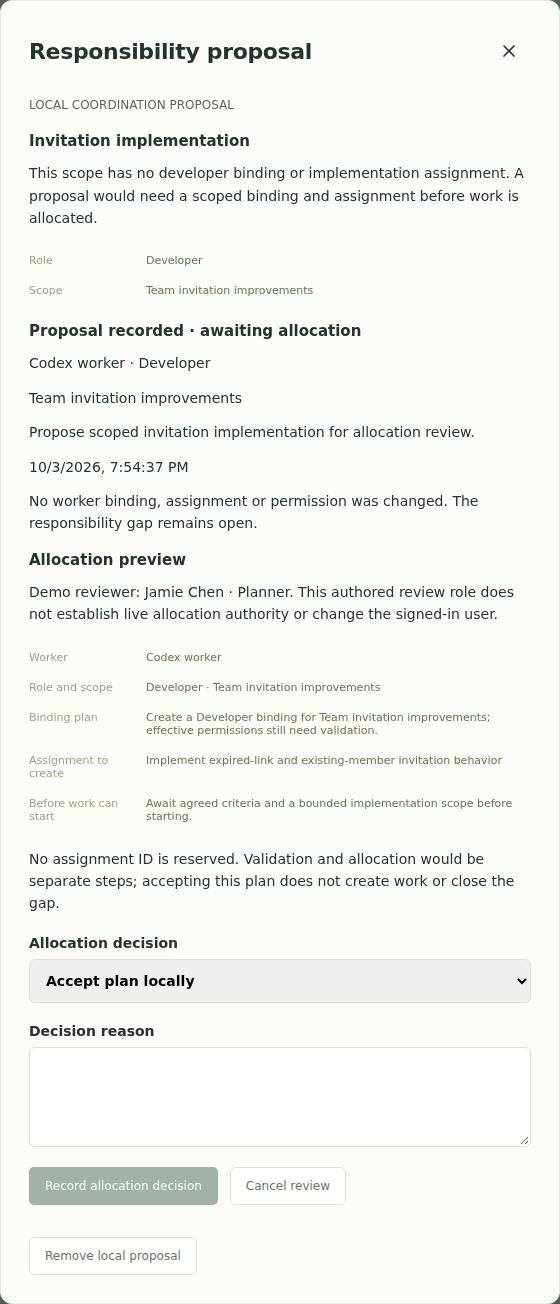
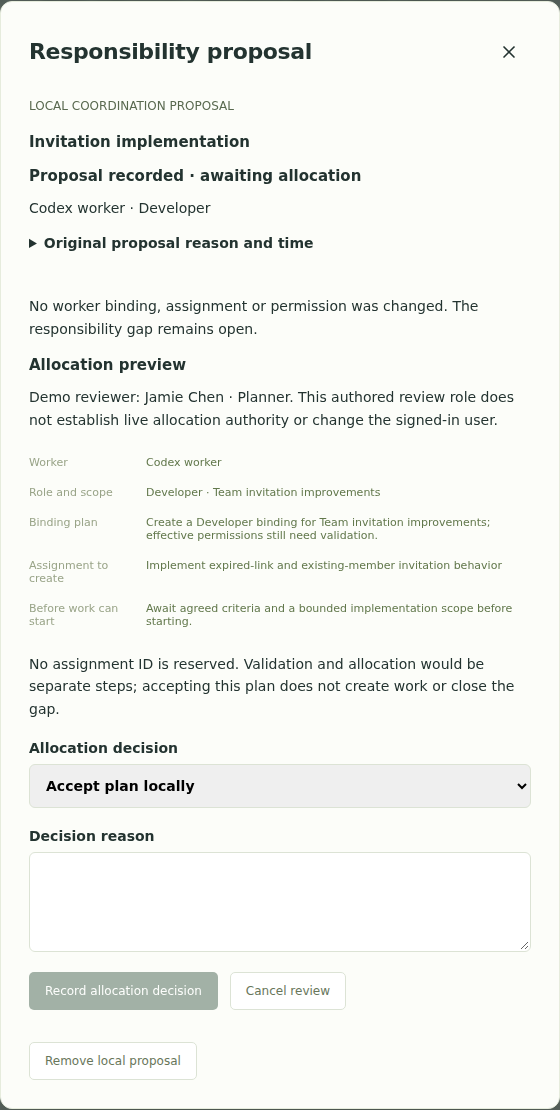
Improve customer terminology and review usability

diff --git a/ui-design/tests/customer-usability.spec.ts b/ui-design/tests/customer-usability.spec.ts
@@ -1,0 +1,58 @@
+import { test, expect } from "@playwright/test";
+for (const width of [1440, 390]) {
+  test(`customer terminology and empty-list recovery at ${width}px`, async ({
+    page,
+  }) => {
+    await page.setViewportSize({ width, height: 1000 });
+    await page.goto("/#/organization");
+    const guide = page.locator("details.workspace-guide");
+    await expect(guide).not.toHaveAttribute("open", "");
+    const summary = guide.locator("summary");
+    await summary.focus();
+    await page.keyboard.press("Enter");
+    await expect(guide).toHaveAttribute("open", "");
+    await expect(guide).toContainText(
+      "does not automatically create an assignment",
+    );
+    await expect(guide).toContainText(
+      "recorded response alone does not prove success",
+    );
+    await page.keyboard.press("Enter");
+    await expect(guide).not.toHaveAttribute("open", "");
+    await page
+      .getByRole("button", { name: "Browse workers", exact: true })
+      .click();
+    await page
+      .getByRole("searchbox", { name: "Search workers", exact: true })
+      .fill("no matching person");
+    await page
+      .getByRole("button", { name: "Show all workers", exact: true })
+      .click();
+    await expect(page.getByRole("status")).toContainText("4 of 4 workers");
+    await expect(
+      page.getByRole("searchbox", { name: "Search workers", exact: true }),
+    ).toBeFocused();
+    await expect(page).toHaveURL(/#\/organization\/workers$/);
+    await page
+      .getByRole("button", { name: "Back to Organization", exact: true })
+      .click();
+    await page
+      .getByRole("button", { name: "Browse workstreams", exact: true })
+      .click();
+    await page
+      .getByRole("searchbox", { name: "Search workstreams", exact: true })
+      .fill("no matching goal");
+    await page
+      .getByRole("button", { name: "Show all workstreams", exact: true })
+      .click();
+    await expect(page.getByRole("status")).toContainText("2 of 2 workstreams");
+    await expect(
+      page.getByRole("searchbox", { name: "Search workstreams", exact: true }),
+    ).toBeFocused();
+    expect(
+      await page.evaluate(
+        () => document.documentElement.scrollWidth <= innerWidth,
+      ),
+    ).toBe(true);
+  });
+}

diff --git a/ui-design/src/ResponsibilityProposal.tsx b/ui-design/src/ResponsibilityProposal.tsx
@@ -41,13 +41,17 @@ export function ResponsibilityProposal({
     <div className="proposal-content">
       <div className="modal-kicker">LOCAL COORDINATION PROPOSAL</div>
       <h3>{gap.title}</h3>
-      <p>{requirement.note}</p>
-      <dl className="artifact-properties">
-        <dt>Role</dt>
-        <dd>{requirement.role}</dd>
-        <dt>Scope</dt>
-        <dd>{requirement.scope}</dd>
-      </dl>
+      {!reviewing && !proposal?.decision && (
+        <>
+          <p>{requirement.note}</p>
+          <dl className="artifact-properties">
+            <dt>Role</dt>
+            <dd>{requirement.role}</dd>
+            <dt>Scope</dt>
+            <dd>{requirement.scope}</dd>
+          </dl>
+        </>
+      )}
       {proposal ? (
         <section aria-label="Recorded responsibility proposal">
           <h3 ref={receiptHeading} tabIndex={-1}>
@@ -59,13 +63,29 @@ export function ResponsibilityProposal({
             {workers.find((w) => w.id === proposal.workerId)?.name} ·{" "}
             {proposal.role}
           </p>
-          <p>{proposal.scope}</p>
-          <p>{proposal.rationale}</p>
-          <p>
-            <time dateTime={proposal.recordedAt}>
-              {new Date(proposal.recordedAt).toLocaleString()}
-            </time>
-          </p>
+          {reviewing || proposal.decision ? (
+            <details className="proposal-original">
+              <summary>Original proposal reason and time</summary>{" "}
+              <p>{proposal.scope}</p>
+              <p>{proposal.rationale}</p>
+              <p>
+                <time dateTime={proposal.recordedAt}>
+                  {new Date(proposal.recordedAt).toLocaleString()}
+                </time>
+              </p>
+            </details>
+          ) : (
+            <>
+              {" "}
+              <p>{proposal.scope}</p>
+              <p>{proposal.rationale}</p>
+              <p>
+                <time dateTime={proposal.recordedAt}>
+                  {new Date(proposal.recordedAt).toLocaleString()}
+                </time>
+              </p>
+            </>
+          )}
           <p>
             No worker binding, assignment or permission was changed. The
             responsibility gap remains open.

diff --git a/ui-design/src/WorkspaceGuide.tsx b/ui-design/src/WorkspaceGuide.tsx
@@ -1,0 +1,55 @@
+export function WorkspaceGuide() {
+  return (
+    <details className="panel workspace-guide">
+      <summary>Understand this workspace</summary>
+      <p>
+        Start with shared goals in Organization. Browse workstreams to follow
+        coordination, or workers to inspect scoped responsibilities. My Work is
+        Alex's personal inbox. Demos offers a guided customer walkthrough.
+      </p>
+      <dl>
+        <dt>Workstream</dt>
+        <dd>
+          A shared goal with related work and expected collaboration steps.
+        </dd>
+        <dt>Worker</dt>
+        <dd>
+          A human, AI contributor or deterministic executor participating in the
+          organization.
+        </dd>
+        <dt>Role and scope</dt>
+        <dd>
+          A responsibility and the subjects it applies to. A binding connects a
+          worker to that role and scope; it does not automatically create an
+          assignment.
+        </dd>
+        <dt>Assignment</dt>
+        <dd>
+          A specific request allocated to a worker, with expected input and
+          response.
+        </dd>
+        <dt>Handoff</dt>
+        <dd>
+          An expected exchange between responsibilities. A linked record does
+          not confirm delivery or receipt.
+        </dd>
+        <dt>Proposal and allocation</dt>
+        <dd>
+          A proposal suggests responsibility. Accepting its plan still awaits
+          allocation: creating the validated binding and assignment is a
+          separate step.
+        </dd>
+        <dt>Evidence and outcome</dt>
+        <dd>
+          Evidence is an inspectable record. Outcome review asks whether
+          observations prove the shared goal was achieved; a recorded response
+          alone does not prove success.
+        </dd>
+      </dl>
+      <p>
+        This workspace uses sample data. Local proposals, decisions and
+        responses reset on refresh. No live SF action is sent.
+      </p>
+    </details>
+  );
+}

diff --git a/ui-design/src/WorkstreamsDirectory.tsx b/ui-design/src/WorkstreamsDirectory.tsx
@@ -112,6 +112,19 @@ export function WorkstreamsDirectory({
         <DetailEmptyState>
           No matching workstreams. Change your search or clear the filters to
           see the sample workstreams.
+          <button
+            className="button secondary"
+            onClick={() => {
+              onFilters(defaultStreamFilters);
+              requestAnimationFrame(() =>
+                document
+                  .querySelector<HTMLElement>('input[type="search"]')
+                  ?.focus(),
+              );
+            }}
+          >
+            Show all workstreams
+          </button>
         </DetailEmptyState>
       ) : (
         <div className="org-stream-grid">

diff --git a/ui-design/tests/allocation-review.spec.ts b/ui-design/tests/allocation-review.spec.ts
@@ -58,6 +58,14 @@ for (const width of [1440, 390]) {
     await expect(
       page.getByRole("region", { name: "Allocation decision receipt" }),
     ).toContainText("worker has not been allocated");
+    const original = page.locator("details.proposal-original");
+    await expect(original).not.toHaveAttribute("open", "");
+    await original.locator("summary").click();
+    await expect(original).toHaveAttribute("open", "");
+    await expect(original).toContainText(
+      "Propose a bounded invitation implementation.",
+    );
+    await original.locator("summary").click();
     await expect(
       page.getByRole("button", {
         name: "Record allocation decision",

diff --git a/ui-design/src/WorkersDirectory.tsx b/ui-design/src/WorkersDirectory.tsx
@@ -123,6 +123,19 @@ export function WorkersDirectory({
       {visible.length === 0 ? (
         <DetailEmptyState>
           No matching workers. Change your search or clear the filters.
+          <button
+            className="button secondary"
+            onClick={() => {
+              onFilters(defaultWorkerFilters);
+              requestAnimationFrame(() =>
+                document
+                  .querySelector<HTMLElement>('input[type="search"]')
+                  ?.focus(),
+              );
+            }}
+          >
+            Show all workers
+          </button>
         </DetailEmptyState>
       ) : (
         <div className="org-stream-grid">

diff --git a/ui-design/src/styles.css b/ui-design/src/styles.css
@@ -3437,3 +3437,34 @@ main h3,
 .proposal-content > section > button:last-child {
   margin-top: 16px;
 }
+
+.workspace-guide {
+  padding: 20px;
+  margin: 24px 0;
+}
+.workspace-guide summary,
+.proposal-original summary {
+  cursor: pointer;
+  font-weight: 600;
+  min-height: 44px;
+  display: list-item;
+}
+.workspace-guide p,
+.workspace-guide dd {
+  line-height: 1.6;
+  margin: 12px 0;
+}
+.workspace-guide dt {
+  margin-top: 16px;
+  font-weight: 700;
+}
+.workspace-guide dd {
+  margin-left: 0;
+}
+.proposal-original {
+  margin: 16px 0;
+}
+.detail-empty > p > button {
+  display: block;
+  margin-top: 16px;
+}

diff --git a/ui-design/src/OrganizationOverview.tsx b/ui-design/src/OrganizationOverview.tsx
@@ -1,3 +1,4 @@
+import { WorkspaceGuide } from "./WorkspaceGuide";
 import type { ResponsibilityProposal } from "./data/responsibilityProposals";
 import { AttentionSummary } from "./AttentionSummary";
 import type { AttentionCategory } from "./data/organizationAttention";
@@ -71,6 +72,7 @@ export function OrganizationOverview({
           </p>
         </div>
       </div>
+      <WorkspaceGuide />
       <nav className="organization-sections" aria-label="Organization sections">
         {[
           ["org-goals", "Goals & workstreams"],

diff --git a/ui-design/CUSTOMER-EXPERIENCE-REVIEW.md b/ui-design/CUSTOMER-EXPERIENCE-REVIEW.md
@@ -1,0 +1,21 @@
+# Customer experience review
+
+This is a review of the authored prototype and browser behavior, not a customer usability study or live SF validation.
+
+## Changes made
+
+- Organization now offers a collapsed Understand this workspace guide. It explains where to start and defines workstream, worker, role/scope, binding, assignment, handoff, proposal/allocation and evidence/outcome in plain language. The guide uses native keyboard-accessible disclosure behavior.
+- Allocation review no longer repeats the initial gap explanation and role table. Original proposal reason/time move into a disclosure while reviewing or inspecting a decision; they remain available. The plan, prerequisites and decision form stay visible in reading order. Pending proposal receipts keep their original presentation.
+- Empty worker/workstream searches now provide Show all actions at the empty state. Reset removes filters from the URL, restores results and focuses search so keyboard users can immediately refine again.
+
+## Reviewed boundaries
+
+Organization is the shared entry and My Work remains Alex's personal inbox. Directories use the main sample relationships, with the larger scenario separately labeled. Proposed workstream order does not assert execution order. Gaps are organization context rather than failures attributed to individual workers. Review names an authored demo planner without switching the signed-in identity. Accepted plans still await actual allocation, and local response records do not verify outcomes.
+
+Desktop and mobile review covers overview terminology, directory filtering/empty recovery and allocation preview/form layout. Existing browser checks cover route/history, scoped artifacts, modal focus and the customer tour. Local sample records reset on refresh, and the UI explains that boundary.
+
+## Remaining practical limits
+
+Long flow and worker lists still require scrolling. A real organization would need provider-backed data, paging and verified permissions before allocation operations. Terminology should be tested with actual customers; this review cannot establish that users understand it independently. The larger demo is not yet an interchangeable source for the main workspace.
+
+The five agreed improvements are complete: Workstreams directory, Workers directory, explicit flow, allocation-plan review and this customer experience review.

diff --git a/ui-design/ITERATIONS.md b/ui-design/ITERATIONS.md
@@ -563,3 +563,11 @@ Recorded responsibility proposals now offer a local allocation-plan review. The 
 Accept/reject requires a decision rationale and records an immutable session receipt attached to the proposal. Acceptance remains allocation pending; rejection plans no creation. Neither action creates bindings/assignments, grants permissions, reserves IDs or closes gaps. Cancel discards the decision draft; removing the proposal removes its receipt; refresh clears both. Added review documentation and preview/capture step, and improved proposal paragraph spacing.
 
 Validation: production build and seven relevant browser tests passed for allocation review, proposal lifecycle, workstream flows and customer tours. After final cancel-draft reset, both new desktop/mobile allocation tests and the build passed again. Coverage includes required rationale, new-versus-reused binding preview, acceptance/rejection, receipt focus, reopening, cancellation, removal, refresh and unchanged open responsibility signals. Desktop and mobile previews were visually inspected.
+
+## 57 — Customer experience review
+
+Added a collapsed plain-language workspace guide on Organization covering entry points and core organization terms. Allocation review now omits repeated introductory context and keeps original proposal reason/time in an accessible disclosure during review or decision inspection. Pending proposal receipts retain their original presentation. Empty worker/workstream searches now offer Show all actions that clear URL filters, restore results and focus search.
+
+`CUSTOMER-EXPERIENCE-REVIEW.md` records changes, reviewed semantics and practical limits. This is a prototype review, not a customer study or live-provider validation. The agreed five-item improvement list is complete. Added a guide preview/capture and refreshed allocation review preview.
+
+Validation: production build and eleven related desktop/mobile browser tests passed for terminology disclosure, empty recovery, both directories, proposal/allocation and customer tour. Three further allocation/keyboard tests passed after adding original-proposal disclosure assertions. Coverage includes native keyboard toggling, reset URL/search focus, retained proposal rationale, modal containment and existing session boundaries. Desktop guide and mobile allocation form previews were visually inspected.

diff --git a/ui-design/ALLOCATION-REVIEW.md b/ui-design/ALLOCATION-REVIEW.md
@@ -7,3 +7,5 @@ The authored reviewer is Jamie Chen in a Planner role for this demo. This label 
 Acceptance records an accepted plan with allocation pending. It creates no binding or assignment, reserves no assignment ID, grants no permission and leaves the responsibility gap open. Rejection records that no allocation creation is planned. The preview remains visible as the plan that was reviewed. Criteria clarification is needed before implementation starts; criteria, candidate identity and checks are needed before assessment starts.
 
 Decisions are stored on the proposal in app memory for this browser session. Reopening from either proposal entry preserves the receipt. Refresh clears proposal and decision together. No external request or SF mutation occurs, and main worker/workstream directories, attention counts, assignments and outcome state remain unchanged. Executing an accepted plan would require a separate validated allocation operation against a real provider.
+
+During review or after a decision, Original proposal reason and time is collapsed to keep attention on the plan/decision. Expand it to inspect the original request. The initial gap explanation and role table are omitted during these stages; the preview retains role/scope and the open-gap boundary.

diff --git a/ui-design/README.md b/ui-design/README.md
@@ -211,3 +211,5 @@ Organization Overview → Browse workers opens a searchable directory with type,
 Workstream detail now shows an ordered collaboration flow with explicit assignment, evidence, exchange and missing-responsibility links. Numbering is proposed coordination rather than execution history. See [WORKSTREAM-FLOW.md](WORKSTREAM-FLOW.md).
 
 Responsibility proposal → Review allocation plan previews proposed binding/assignment changes and records a local accept/reject decision with rationale. Accepted plans remain pending allocation. See [ALLOCATION-REVIEW.md](ALLOCATION-REVIEW.md).
+
+Organization includes an expandable plain-language workspace guide. Directory empty states offer Show all recovery, and allocation review keeps the original proposal behind a disclosure. See [CUSTOMER-EXPERIENCE-REVIEW.md](CUSTOMER-EXPERIENCE-REVIEW.md).
